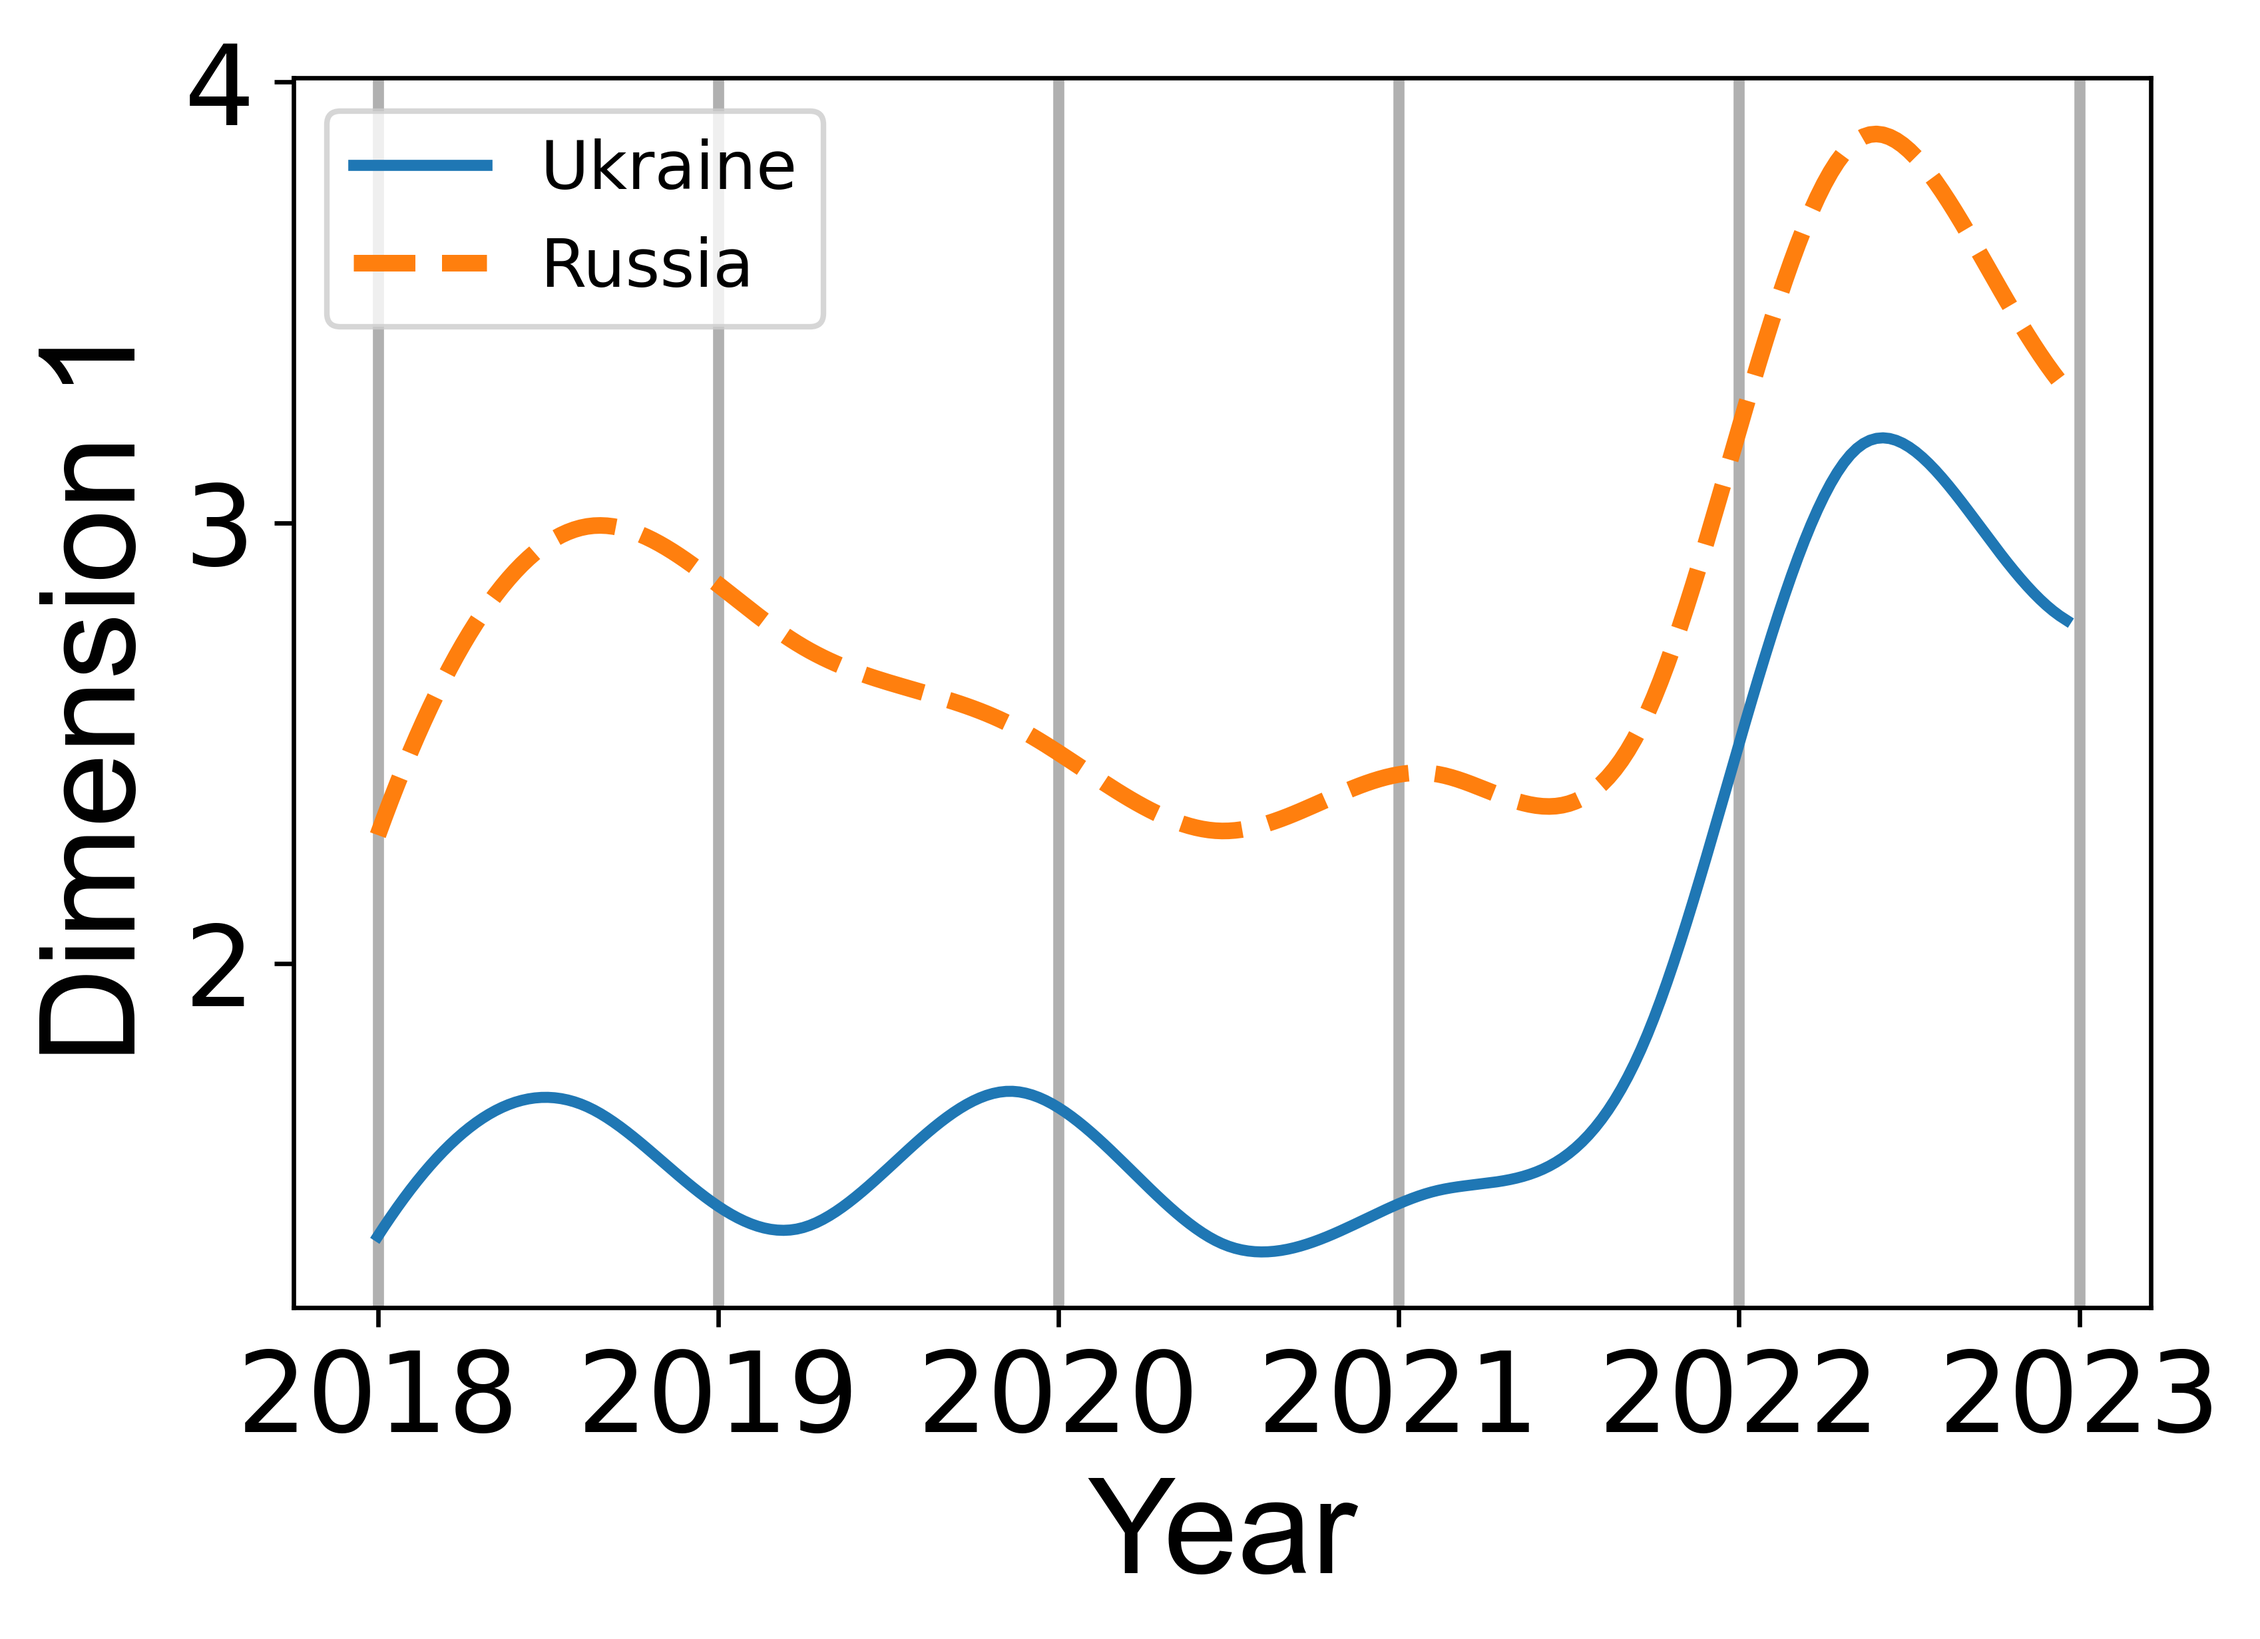
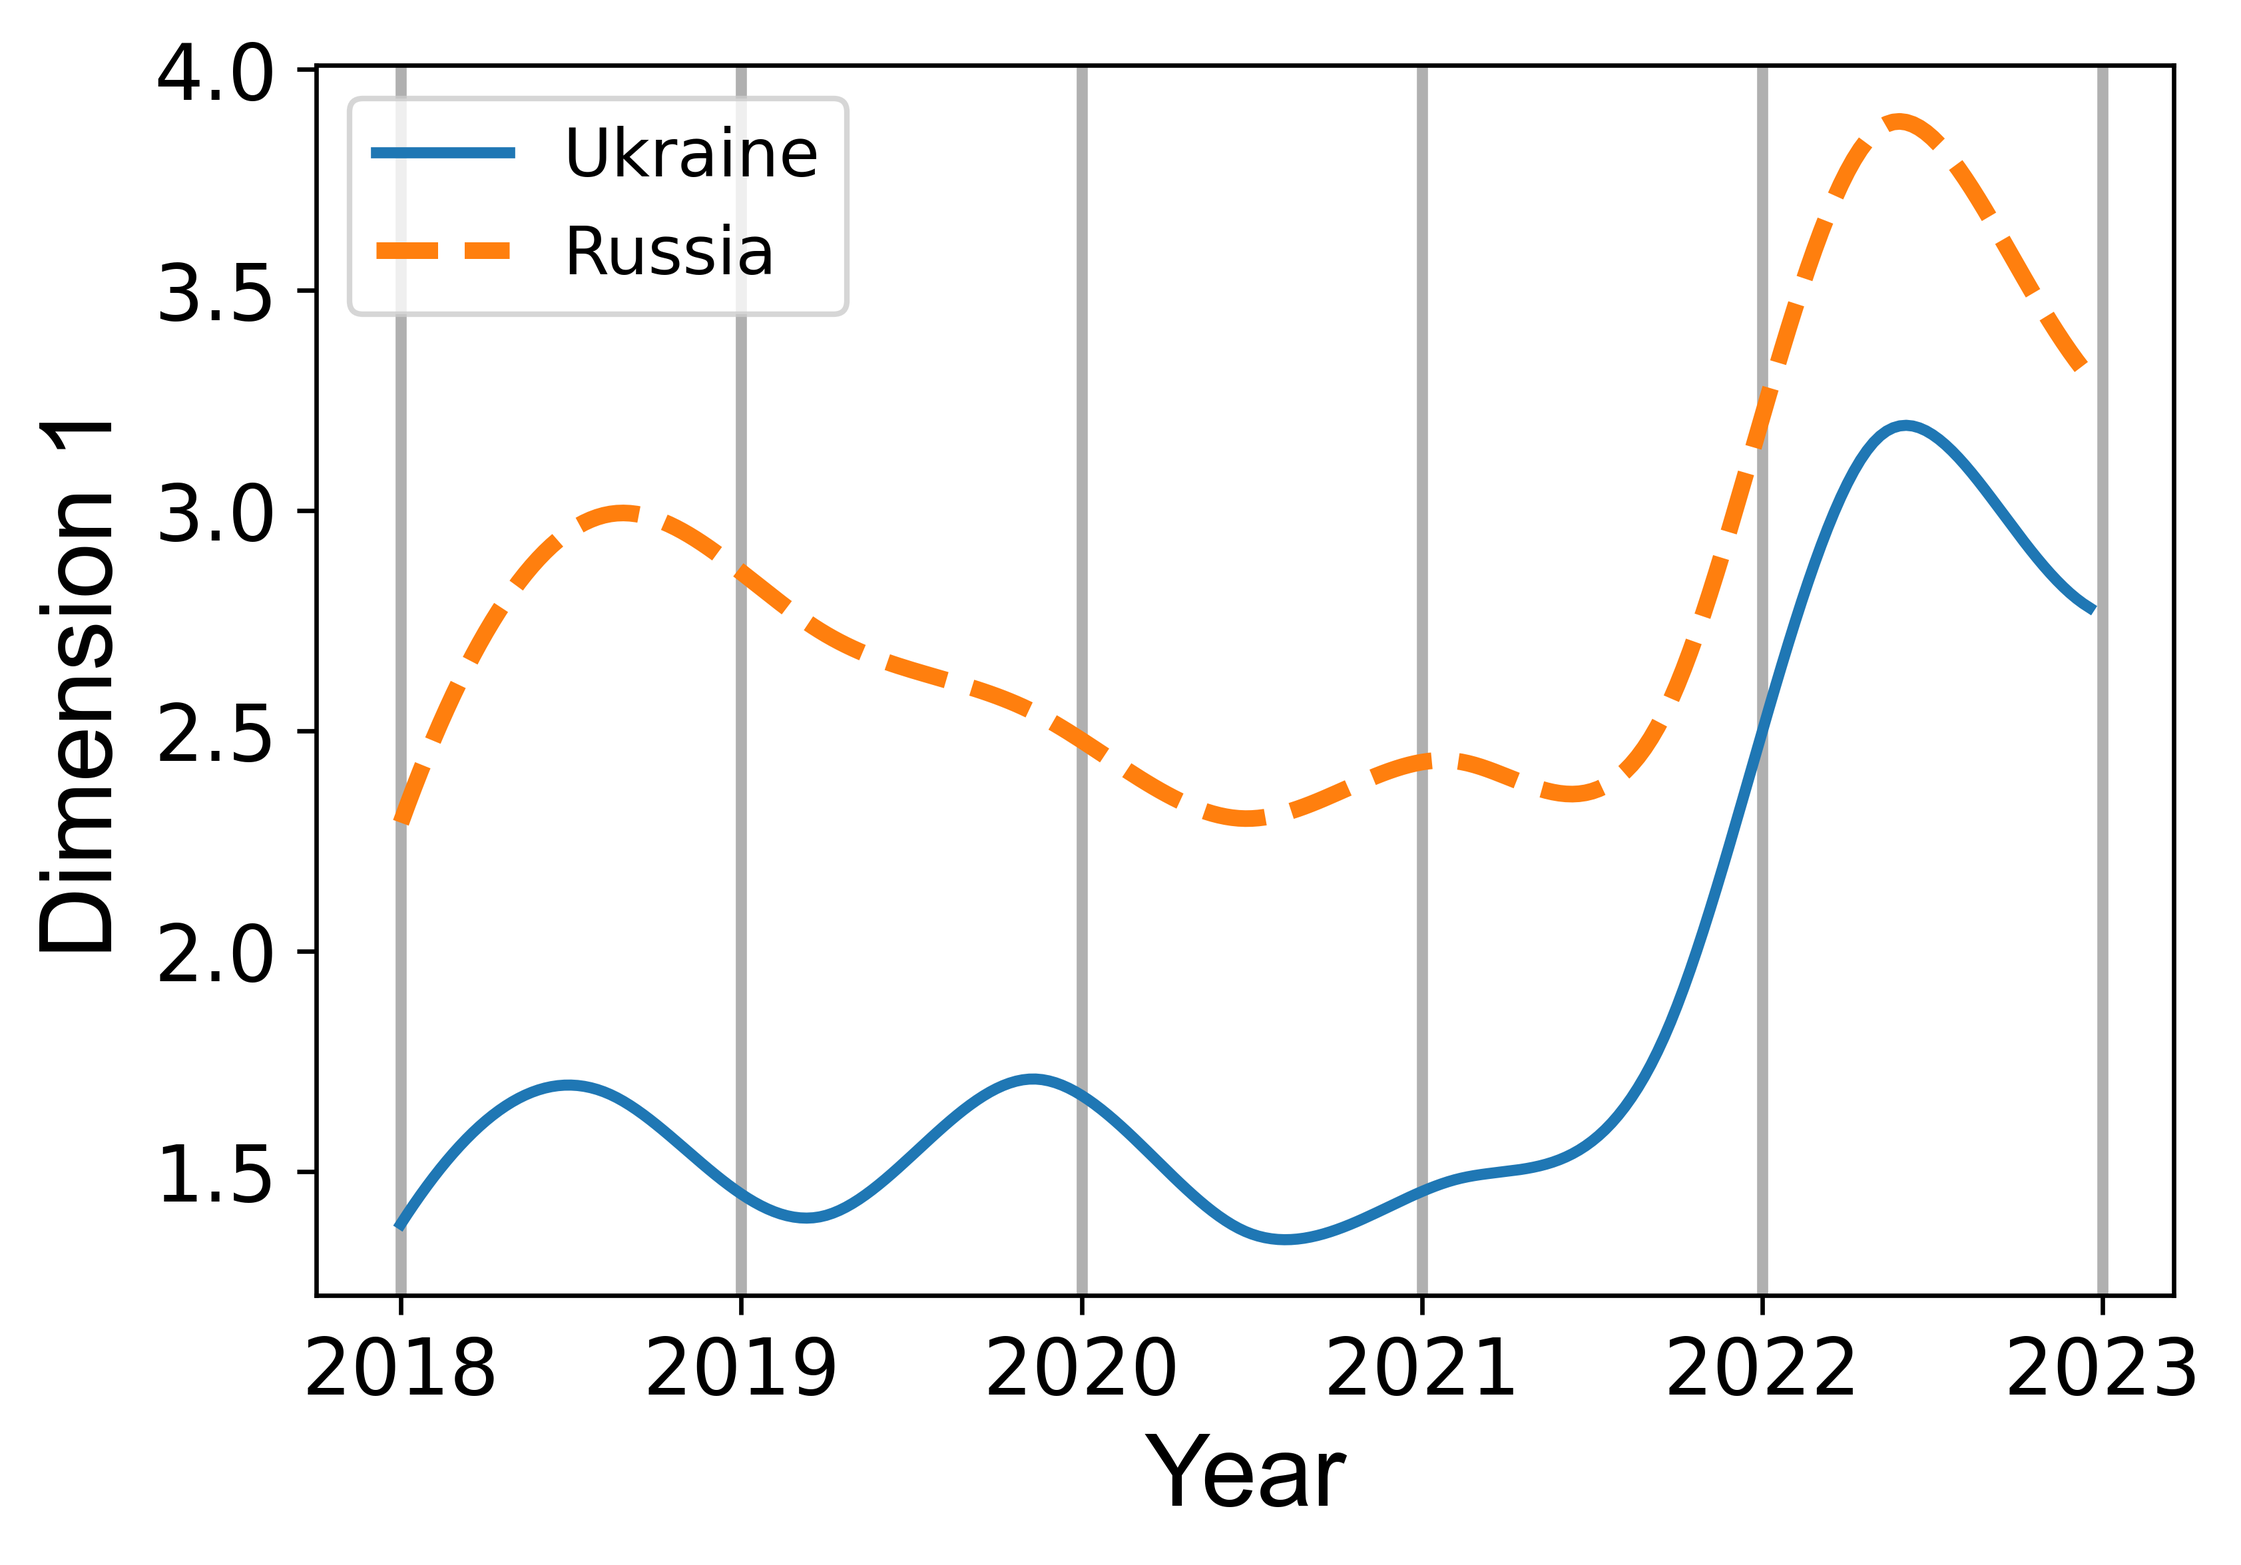
updated images

Changed region(s): [[0.0, 0.0311, 0.9982, 0.9626], [0.3743, 0.4037, 0.4367, 0.4347]]

diff --git a/examples/polecat_example.py b/examples/polecat_example.py
@@ -63,11 +63,11 @@ fig, ax = plt.subplots(figsize=(6, 4))
 ax.plot(time_points, u_ukraine, linewidth=2, label='Ukraine')
 ax.plot(time_points, u_russia, linestyle='--', linewidth=3, label='Russia')
 ax.set_xticks([i * 52 for i in range(6)])
-ax.set_xticklabels([2018 + i for i in range(6)], fontsize=20)
-ax.tick_params(axis='both', which='major', labelsize=20)
+ax.set_xticklabels([2018 + i for i in range(6)], fontsize=14)
+ax.tick_params(axis='both', which='major', labelsize=14)
 ax.grid(axis='x', lw=2)
-ax.set_xlabel('Year', fontsize=24, fontfamily='Arial')
-ax.set_ylabel('Dimension 1', fontsize=24, fontfamily='arial')
+ax.set_xlabel('Year', fontsize=18, fontfamily='Arial')
+ax.set_ylabel('Dimension 1', fontsize=18, fontfamily='arial')
 ax.legend(fontsize=12)
 
 fig.savefig("ls_n50.png", dpi=600, bbox_inches='tight')

diff --git a/splinetlsm/datasets/__init__.py b/splinetlsm/datasets/__init__.py
@@ -1,4 +1,2 @@
 from .synthetic import *
-from .load_primaryschool import *
 from .load_polecat import *
-from .load_facebook import *
